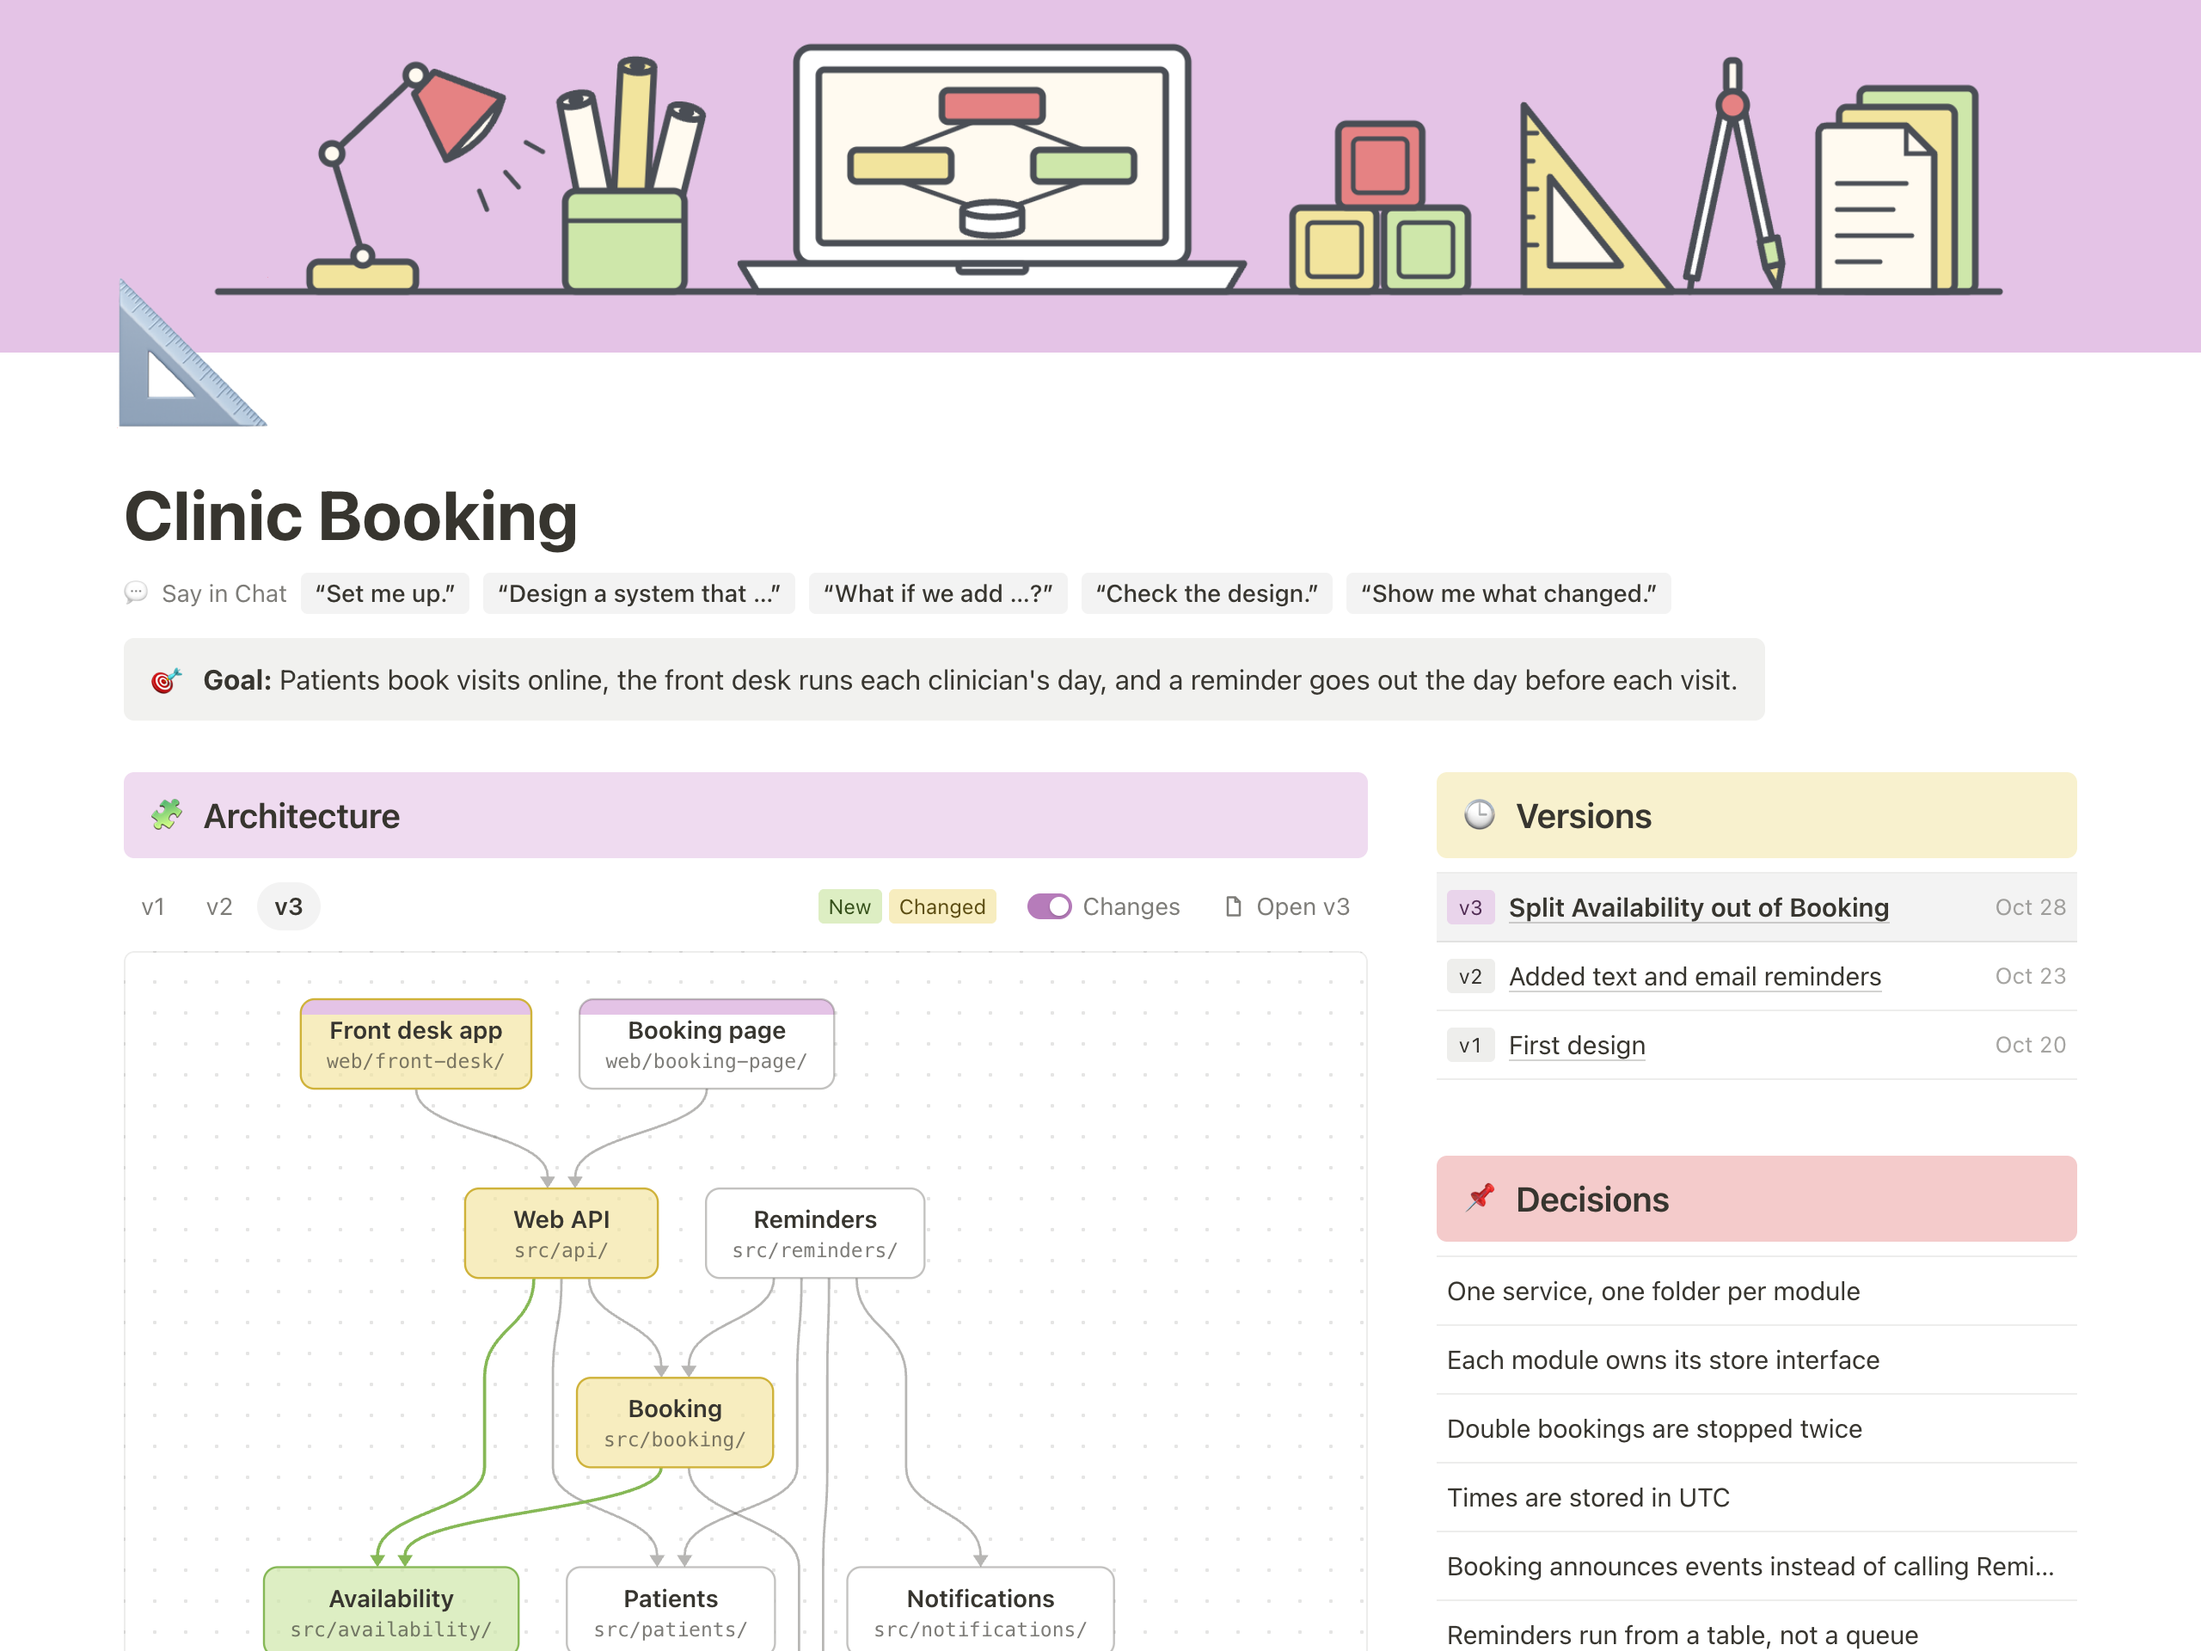
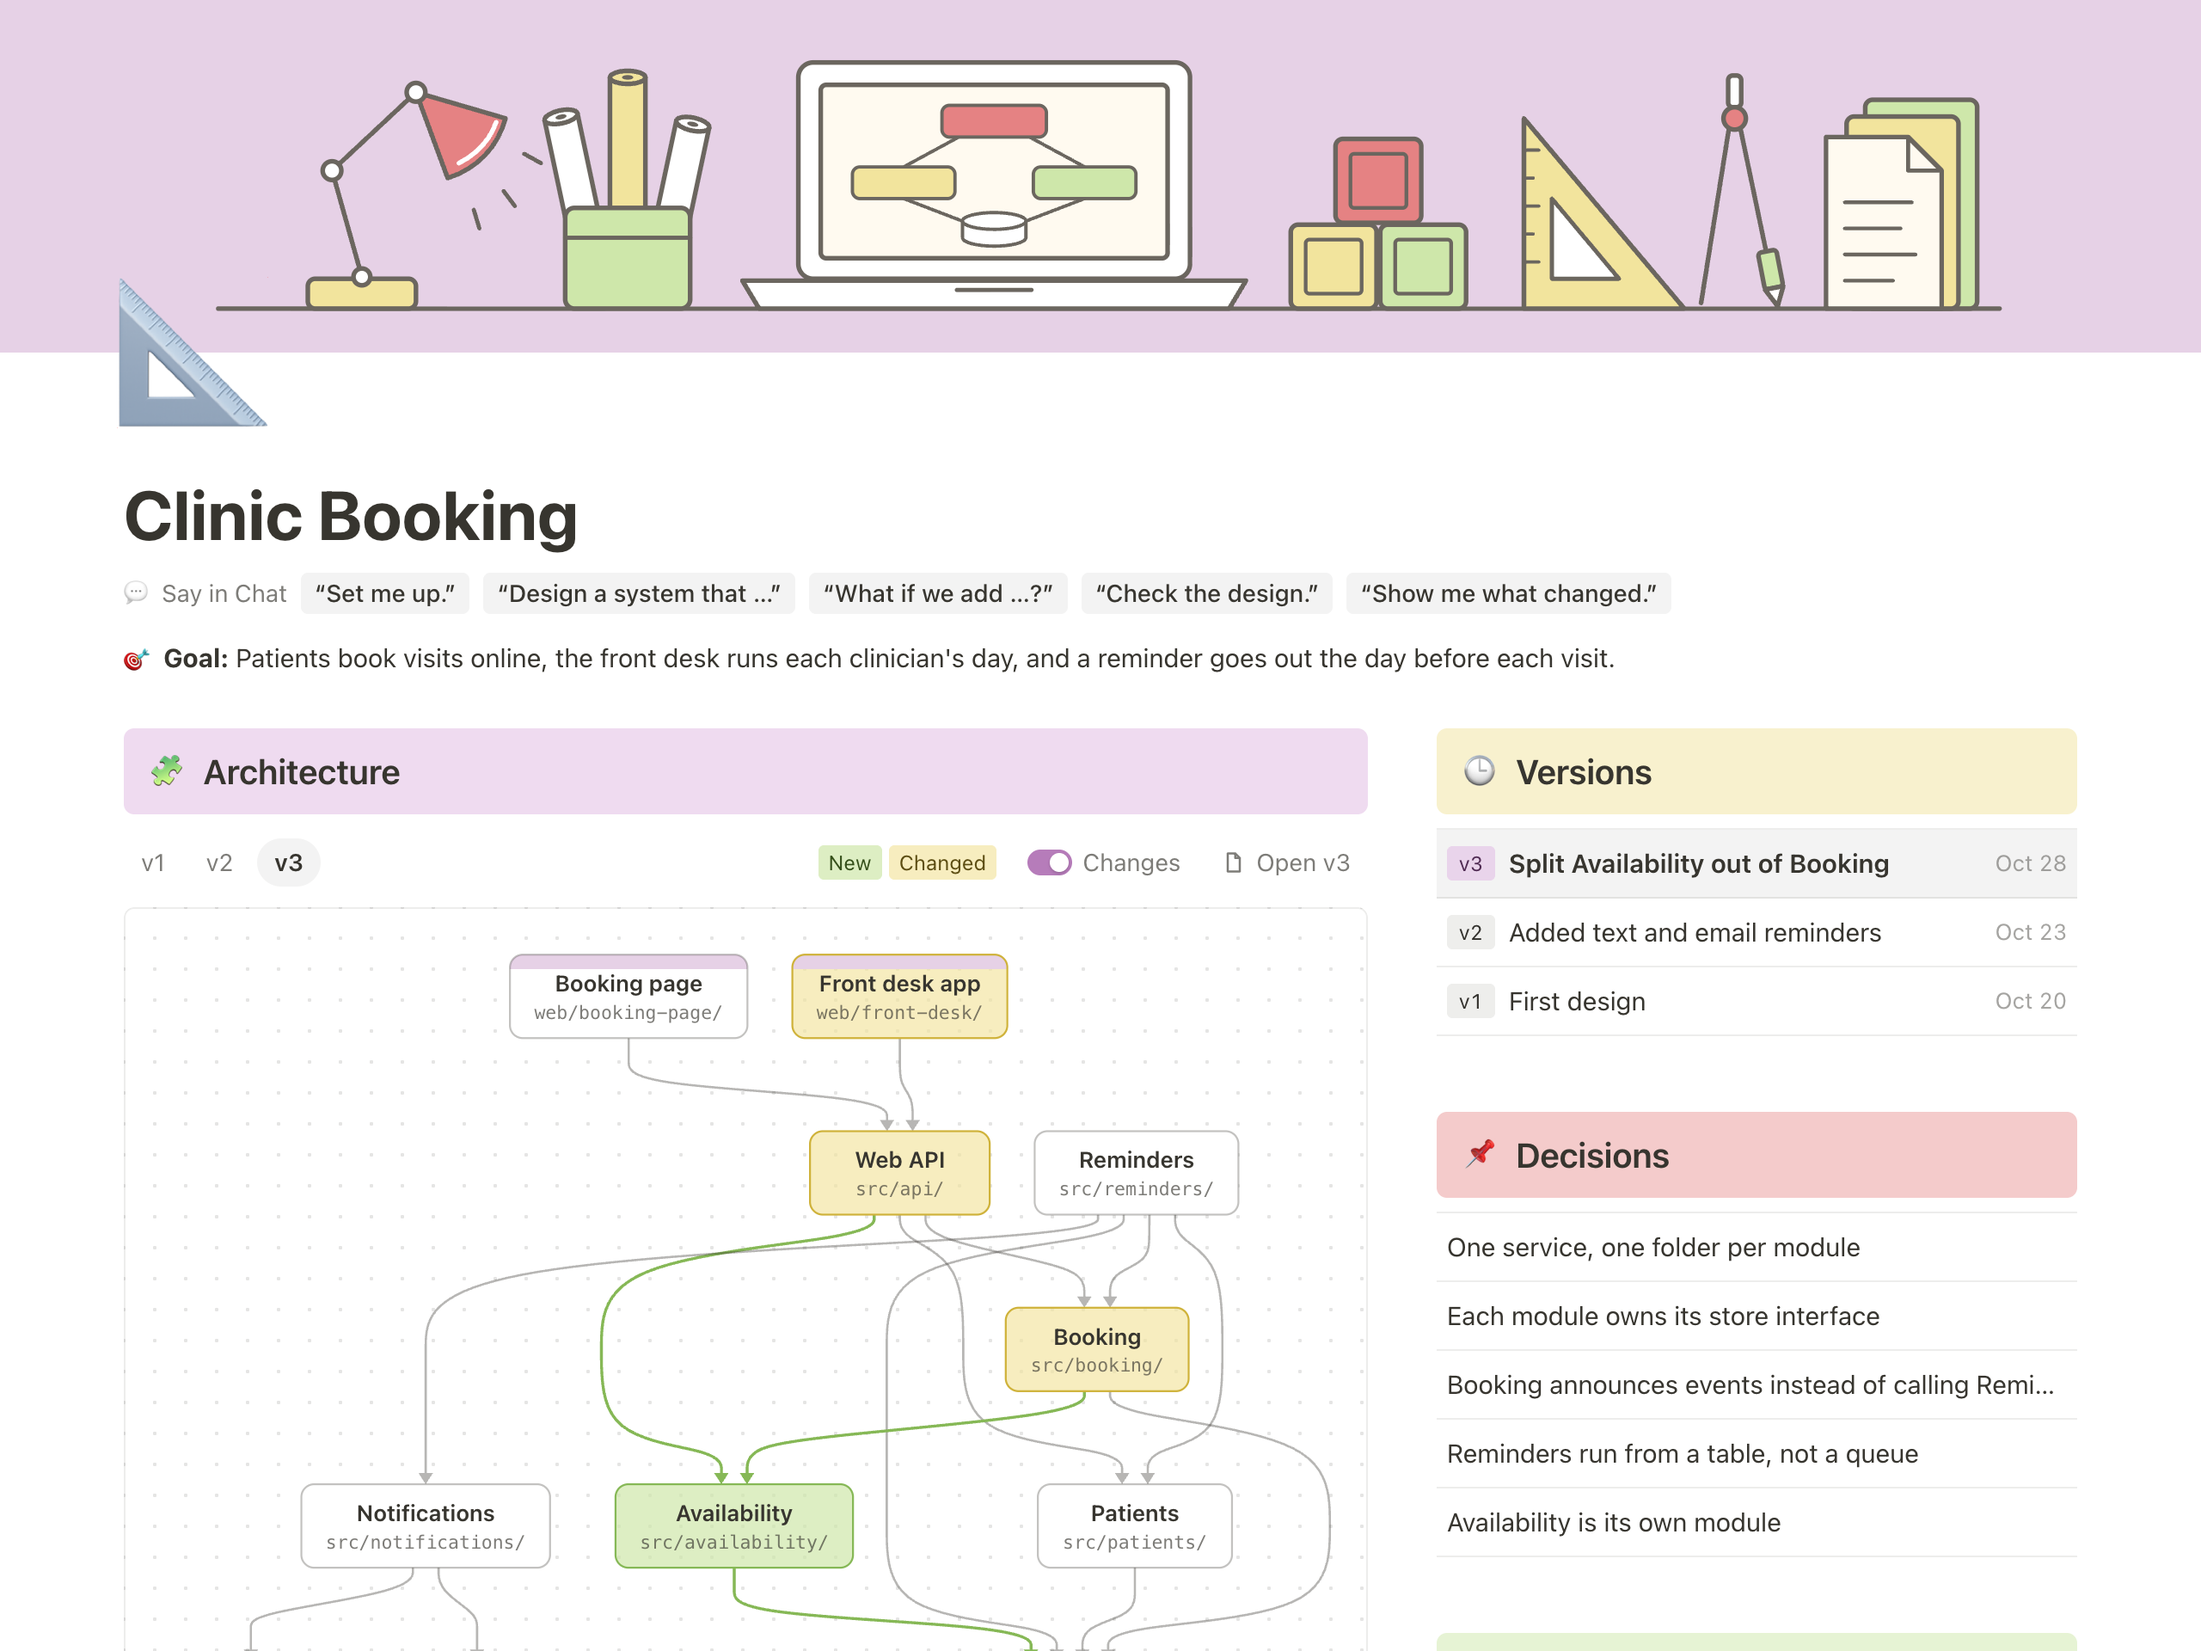
Refresh Software Architect's cover
The cover is the current dashboard: the redrawn banner on a softer orchid,
the diagram laid out by dagre, the goal as a plain line, and decisions that
open their place in the architecture. covers/README.md records the new
banner color.

diff --git a/covers/README.md b/covers/README.md
@@ -21,5 +21,5 @@ sips -s format jpeg -s formatOptions 90 cover.png --out wikis/<id>/screenshots/c
 | paper-tracker-for-industry | violet, weekly digest | — |
 | llm-wiki-for-papers | green, screenshot of the wiki's dashboard: topics, papers, and progress | blue `#a6cbe8` |
 | poc-deck-builder | blue, results slide with each success criterion against its target | — |
-| software-architect | clay, screenshot of the architecture dashboard: the diagram, versions, and decisions | orchid `#e4c3e6` |
+| software-architect | clay, screenshot of the architecture dashboard: the diagram, versions, and decisions | soft orchid `#e6d1e6` |
 | workout-tracker | violet, screenshot of the tracker page with the first week done | teal `#b4e0db` |
